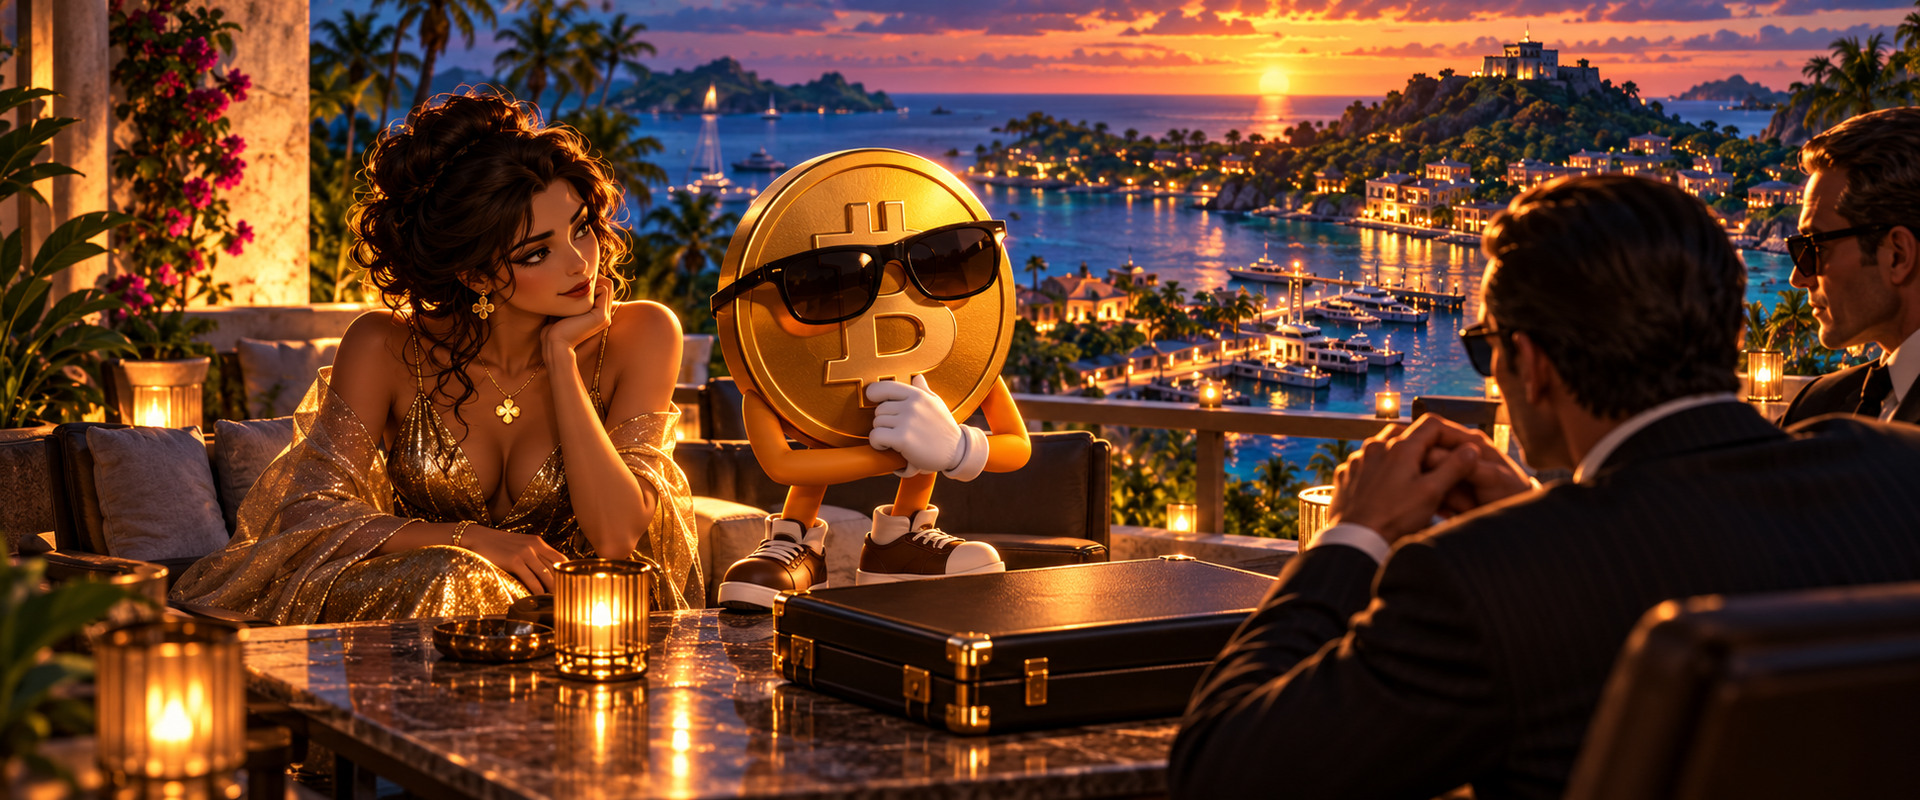
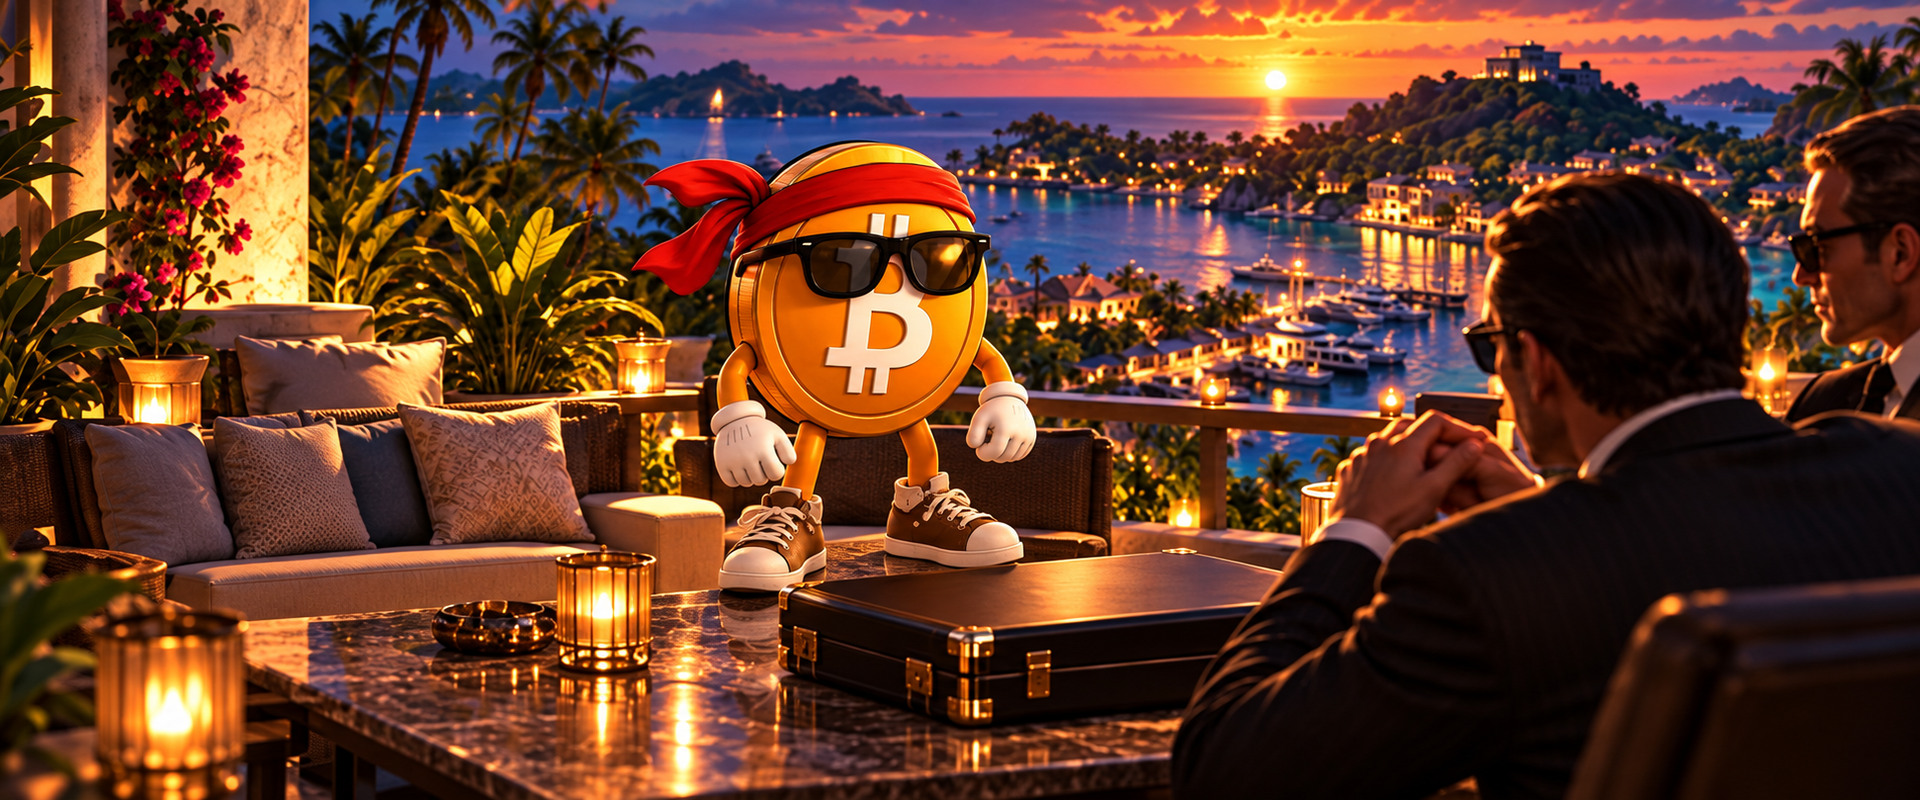
Correct Choppy and remove Lena from private offer scene

diff --git a/choppy-bitcoin/chance/WIDE-REDRAW-STATUS.md b/choppy-bitcoin/chance/WIDE-REDRAW-STATUS.md
@@ -7,7 +7,7 @@ Target display: full game width (480 CSS px on desktop, responsive on smaller sc
 - `pieceWorld` — `pieceWorld-wide.jpg` — original panoramic scene, 1916 × 802 px; inspected at 480 × 201 px; requires a fresh native 1920 × 800 redraw before final completion; mapped with `wide-art` CSS.
 - `ortegaCalls` — `ortegaCalls-wide.jpg` — original panoramic office-call scene, 1939 × 811 px; inspected at 480 × 201 px; requires a fresh native 1920 × 800 redraw before final completion; plain coin reverse avoids a malformed emblem; papers are secondary, plausible, and unlabeled.
 - `ambassador` — `ambassador-wide.jpg` — original panoramic diplomatic-arrival scene, 1920 × 800 px; inspected at 480 × 200 px; Choppy emblem, sunglasses, orange limbs, gloves, and shoes verified; no visible text or implausible props.
-- `anOffer` — `anOffer-wide.jpg` — original panoramic private-offer scene, 1920 × 800 px; inspected at 480 × 200 px; the choice is conveyed through the closed offer case and body language, with no percentage, documents, screen text, or watermark; Choppy invariants verified.
+- `anOffer` — `anOffer-wide.jpg` — corrected panoramic private-offer scene, 1920 × 800 px; inspected at 480 × 200 px; no Lena or other woman is physically present on the island; Choppy has the required red headband, saturated orange-gold body, white ₿ symbol, low black sunglasses, no nose or mouth, orange limbs, white gloves, and brown-and-white shoes; no percentage, documents, screen text, or watermark.
 
 ## Still pending
 
